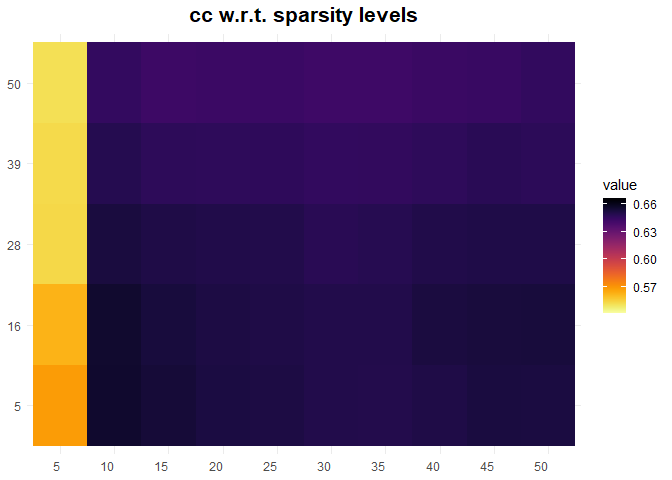
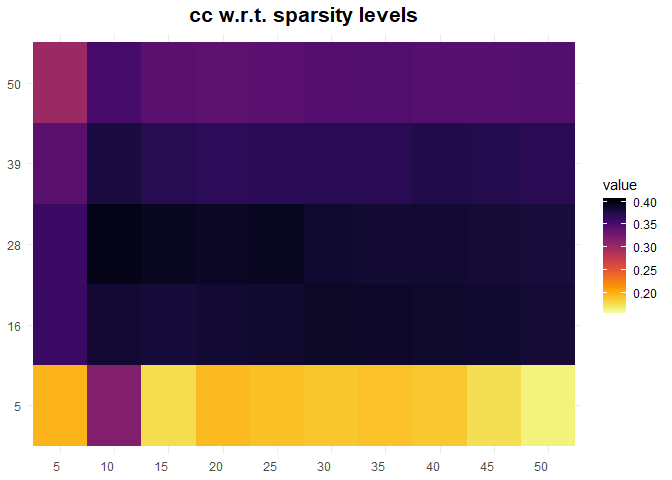
readme wit permutation sourcing functions

diff --git a/README.md b/README.md
@@ -41,7 +41,12 @@ computational burden.
 This is a basic example over simulated data of TOSCCA-MM
 
 ``` r
-library(tosccamm)
+# library(tosccamm)
+source("C:/Users/PC/OneDrive/github/tosccamm/R/tosccam_permut.R")
+source("C:/Users/PC/OneDrive/github/tosccamm/R/tosccamm_core.R")
+source("C:/Users/PC/OneDrive/github/tosccamm/R/tosccamm_folds.R")
+source("C:/Users/PC/OneDrive/github/tosccamm/R/toscca_helpers.R")
+source("C:/Users/PC/OneDrive/github/tosccamm/R/general_functions.R")
 # for plots
 library(grid)
 library(ggplot2)
@@ -72,45 +77,45 @@ for (k in 1:5) {
                                             model = "lme", lmeformula = " ~ 0 + poly(time,3) + (1|id)")
 
 }
-#>  Common convergence error: 0 & Iterations: 5  Common convergence error: 0 & Iterations: 5 
+#>  Common convergence error: 0 & Iterations: 5  Common convergence error: 0 & Iterations: 6 
 #> k-fold cv max. cancor 
-#>             0.5576636 
-#> 
-#>  ........................................ 
-#>  # nonzero A: 15
-#>  # nonzero B: 5
-#>  ........................................ 
-#>  Common convergence error: 0 & Iterations: 12  Common convergence error: 0 & Iterations: 15 
-#> k-fold cv max. cancor 
-#>             0.6563199 
+#>             0.4191102 
 #> 
 #>  ........................................ 
 #>  # nonzero A: 10
 #>  # nonzero B: 5
 #>  ........................................ 
-#>  Common convergence error: 0.02945 & Iterations: 21  Common convergence error: 0.02634 & Iterations: 21 
+#>  Common convergence error: 2e-05 & Iterations: 21  Common convergence error: 0.00034 & Iterations: 21 
 #> k-fold cv max. cancor 
-#>             0.1930129 
+#>             0.3968518 
 #> 
 #>  ........................................ 
-#>  # nonzero A: 20
+#>  # nonzero A: 10
+#>  # nonzero B: 28
+#>  ........................................ 
+#>  Common convergence error: 0.0324 & Iterations: 21  Common convergence error: 0.0282 & Iterations: 21 
+#> k-fold cv max. cancor 
+#>             0.1791438 
+#> 
+#>  ........................................ 
+#>  # nonzero A: 10
 #>  # nonzero B: 5
 #>  ........................................ 
-#>  Common convergence error: 0.02012 & Iterations: 21  Common convergence error: 0.03629 & Iterations: 21 
+#>  Common convergence error: 0.04798 & Iterations: 21  Common convergence error: 0.03029 & Iterations: 21 
 #> k-fold cv max. cancor 
-#>             0.2210444 
+#>             0.3115394 
 #> 
 #>  ........................................ 
 #>  # nonzero A: 5
-#>  # nonzero B: 5
+#>  # nonzero B: 50
 #>  ........................................ 
-#>  Common convergence error: 0.0146 & Iterations: 21  Common convergence error: 0.03219 & Iterations: 21 
+#>  Common convergence error: 0.06816 & Iterations: 21  Common convergence error: 0.06314 & Iterations: 21 
 #> k-fold cv max. cancor 
-#>             0.2377166 
+#>             0.3007874 
 #> 
 #>  ........................................ 
-#>  # nonzero A: 50
-#>  # nonzero B: 39
+#>  # nonzero A: 5
+#>  # nonzero B: 16
 #>  ........................................
 ```
 
@@ -130,52 +135,55 @@ for (k in 1:5) {
 
 <img src="man/figures/README-gridPlots-1.png" width="100%" /><img src="man/figures/README-gridPlots-2.png" width="100%" /><img src="man/figures/README-gridPlots-3.png" width="100%" />
 
-    #>  Common convergence error: 0 & Iterations: 5  Common convergence error: 0 & Iterations: 5 
+    #>  Common convergence error: 0 & Iterations: 4  Common convergence error: 0 & Iterations: 6 
     #> k-fold cv max. cancor 
-    #>             0.5576636 
+    #>             0.4191102 
     #> 
     #>  ........................................ 
-    #>  # nonzero A: 15
+    #>  # nonzero A: 10
     #>  # nonzero B: 5
     #>  ........................................ 
-    #>  Common convergence error: 0 & Iterations: 6  Common convergence error: 0 & Iterations: 10 
+    #>  Common convergence error: 0 & Iterations: 9  Common convergence error: 0 & Iterations: 21 
     #> k-fold cv max. cancor 
-    #>             0.6542468 
+    #>             0.1683788 
     #> 
     #>  ........................................ 
-    #>  # nonzero A: 15
+    #>  # nonzero A: 10
     #>  # nonzero B: 5
     #>  ........................................ 
-    #>  Common convergence error: 0.44569 & Iterations: 21  Common convergence error: 0.00536 & Iterations: 21 
+    #>  Common convergence error: 0 & Iterations: 9  Common convergence error: 0 & Iterations: 16 
     #> k-fold cv max. cancor 
-    #>            0.07551123 
+    #>             0.3118109 
     #> 
     #>  ........................................ 
-    #>  # nonzero A: 15
+    #>  # nonzero A: 10
     #>  # nonzero B: 5
     #>  ........................................ 
-    #>  Common convergence error: 4e-05 & Iterations: 21  Common convergence error: 0.05612 & Iterations: 21 
+    #>  Common convergence error: 0 & Iterations: 20  Common convergence error: 0.09223 & Iterations: 21 
     #> k-fold cv max. cancor 
-    #>            0.03704981 
+    #>             0.0630195 
     #> 
     #>  ........................................ 
-    #>  # nonzero A: 15
+    #>  # nonzero A: 10
     #>  # nonzero B: 5
     #>  ........................................ 
-    #>  Common convergence error: 0.04749 & Iterations: 21  Common convergence error: 0.06966 & Iterations: 21 
+    #>  Common convergence error: 0.01518 & Iterations: 21  Common convergence error: 0.00273 & Iterations: 21 
     #> k-fold cv max. cancor 
-    #>            0.04121069 
+    #>           0.007440166 
     #> 
     #>  ........................................ 
-    #>  # nonzero A: 15
+    #>  # nonzero A: 10
     #>  # nonzero B: 5
     #>  ........................................
     #> Loading required package: iterators
     #> Loading required package: parallel
+    #> Warning: Using `size` aesthetic for lines was deprecated in ggplot2 3.4.0.
+    #> ℹ Please use `linewidth` instead.
+    #> This warning is displayed once every 8 hours.
+    #> Call `lifecycle::last_lifecycle_warnings()` to see where this warning was
+    #> generated.
     #> Warning: The dot-dot notation (`..count..`) was deprecated in ggplot2 3.4.0.
     #> ℹ Please use `after_stat(count)` instead.
-    #> ℹ The deprecated feature was likely used in the tosccamm package.
-    #>   Please report the issue to the authors.
     #> This warning is displayed once every 8 hours.
     #> Call `lifecycle::last_lifecycle_warnings()` to see where this warning was
     #> generated.
@@ -183,7 +191,9 @@ for (k in 1:5) {
 <img src="man/figures/README-permutationTesting-1.png" width="100%" />
 
     #> Empirical p-values:
-    #> 0.976
-    #> 0.953
-    #> 1
+    #> 0
+    #> 0.062
+    #> 0.001
+    #> 0.476
+    #> 0.969
     #> NULL
